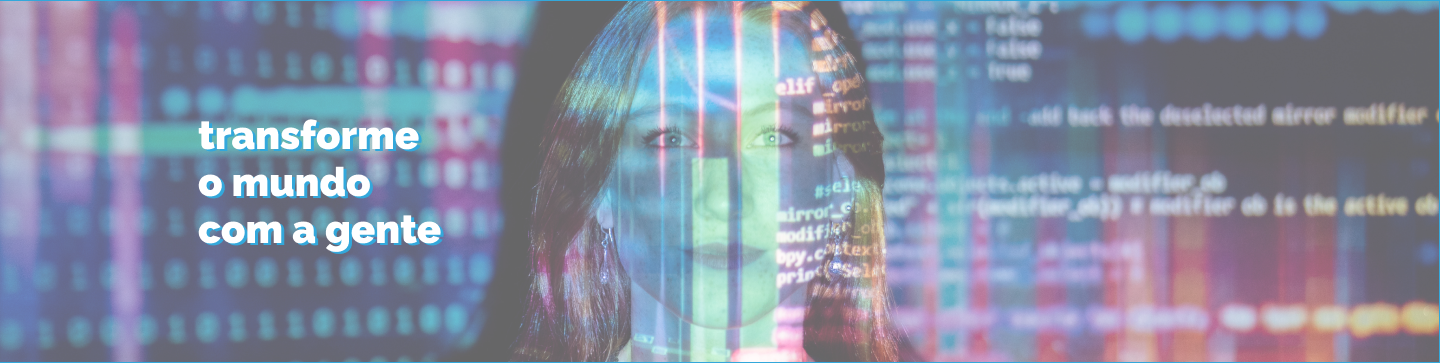
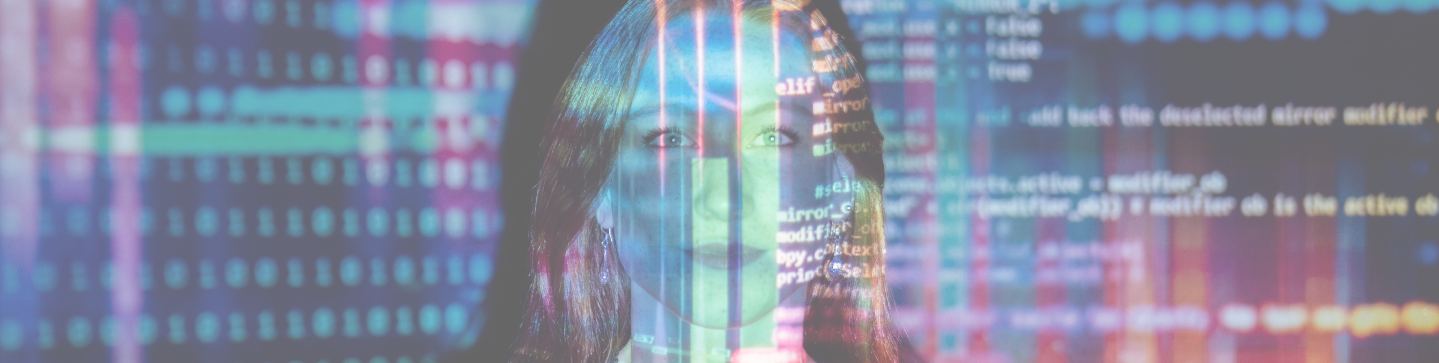
css main concluido

diff --git a/index.html b/index.html
@@ -19,27 +19,34 @@
         </div>
     </header>
     <main>
-        <div>
-            <h4>O QUE VOU APRENDER?</h4>
+        <section class="course-content">
+            <h2>O QUE VOU APRENDER?</h2>
             <p>Temos 3 módulos recheados de conteúdos do básico ao avançado para que você aprenda a desenvolver sites profissionais utilizando somente HTML e CSS: sem nenhuma biblioteca ou framework a mais.</p>
-            <div>
-                <p>Módulo 01: primeiros passos com CSS</p>
+            <div class="modules-list">
+                <div class="module">
+                    <span>Módulo 01: &nbsp </span> primeiros passos com CSS
+                </div>
+                <div class="module">
+                    <span>Módulo 02: &nbsp </span> trabalhando com layouts no CSS
+                </div>
+                <div class="module">
+                    <span>Módulo 03: &nbsp </span> refinando os estilos CSS das nossas páginas
+                </div>
             </div>
-            <div>
-                <p>Módulo 02: trabalhando com layouts no CSS</p>
-            </div>
-            <div>
-                <p>Módulo 03: refinando os estilos CSS das nossas páginas</p>
-            </div>
-        </div>
-        <img src="./imgs/woman-code.png" alt="Pessoa ao lado de uma frase motivadora">
-        <div>
-            <h4>EVOLUA E ENCARE NOVOS DESAFIOS PROFISSIONAIS</h4>
-        </div>
-        <img src="./imgs/professional-challege.png" alt="Pessoa com o notebook na mão">
-        <div>
-            <p>Junte-se ao nosso ecossistema e transforme o mundo com a gente! Todos os dias dezenas de empresas acessam a nossa plataforma em busca dos talentos mais criativos, dinâmicos e colaborativos, além do conhecimento técnico. A nossa missão é te preparar para que você conecte-se com as melhores oportunidades.</p>
-        </div>
+        </section>
+        <section class="transform-world">
+            <p>TRANSFORME O MUNDO COM A GENTE</p>
+        </section>
+        <section class="professional-challenges">
+            <h2>Evolua e encare novos desafios profissionais</h2>
+            <img src="./imgs/professional-challege.png" title="Homem lendo depoimentos em um tablet" alt="Homem lendo depoimentos em um tablet">
+            <p>
+              Junte-se ao nosso ecossistema e transforme o mundo com a gente! Todos os dias dezenas de empresas 
+              acessam a nossa plataforma em busca dos talentos mais criativos, dinâmicos e colaborativos, 
+              além do conhecimento técnico. 
+              A nossa missão é te preparar para que você conecte-se com as melhores oportunidades.
+            </p>
+          </section>
     </main>  
     <footer>
         <img src="./imgs/logo-dio.png" alt="Logo da DIO">

diff --git a/style.css b/style.css
@@ -1,3 +1,9 @@
+body {
+    background-color: #000;
+}
+
+*/* header */
+
 .banner {
     width: 100%;
     height: 605px;
@@ -58,4 +64,113 @@
     background-color: transparent;
     color: #3498db;
     font-size: 1.5em;
+}
+
+/* main */
+
+main {
+    display: flex;
+    flex-direction: column;
+    align-items: center;
+}
+
+.course-content {
+    width: 780px;
+    display: flex;
+    flex-direction: column;
+    align-items: center;
+}
+
+.course-content h2 {
+    color: #33A8DB;
+    font-family: Arial, Helvetica, sans-serif;
+    font-size: 32px;
+    font-style: normal;
+    font-weight: 700;
+    line-height: normal;
+    letter-spacing: 6.08px;
+}
+
+.course-content p {
+    color: #FFF;
+    text-align: center;
+    font-family: Arial, Helvetica, sans-serif;
+    font-size: 16px;
+    font-style: normal;
+    font-weight: 400;
+    line-height: normal;
+    padding: 30px 0 20px 0;
+}
+
+.module {
+    border: solid 2px #3498db;
+    color: #FFF;
+    text-align: center;
+    font-family: Arial, Helvetica, sans-serif;
+    font-size: 16px;
+    font-style: normal;
+    font-weight: 400;
+    line-height: normal;
+    width: 540px;
+    height: 55px;
+    background-color: #252525;
+    border-radius: 40px;
+    margin: 30px;
+    display: flex;
+    align-items: center;
+    justify-content: center;
+}
+
+.transform-world {
+    position: relative;
+    height: 300px;
+    width: 100%;
+    background-size: 100%;
+    background-image: url(./imgs/woman-code.png);
+    margin: 40px 0;
+}
+
+.transform-world p {
+    color: #FFF;
+    text-shadow: 3px 2px 0px #33A8DB;
+    font-family: Arial, Helvetica, sans-serif;
+    font-size: 30px;
+    font-style: normal;
+    font-weight: 900;
+    line-height: normal;
+    position: absolute;
+    top: 33%;
+    left: 15%;
+    width: 250px;
+}
+
+.professional-challenges {
+    display: contents;
+    align-items: center;
+    justify-content: center;
+    text-align: center;
+}
+
+.professional-challenges h2 {
+    color: #33A8DB;
+    font-family: Arial, Helvetica, sans-serif;
+    font-size: 32px;
+    font-style: normal;
+    font-weight: 700;
+    line-height: normal;
+    letter-spacing: 6.08px;
+    width: 700px;
+    margin: 20px 0;
+}
+
+.professional-challenges p {
+    color: #FFF;
+    text-align: center;
+    font-family: Arial, Helvetica, sans-serif;
+    font-size: 16px;
+    font-style: normal;
+    font-weight: 400;
+    line-height: normal;
+    width: 792px;
+    margin: 20px 0;
 }
